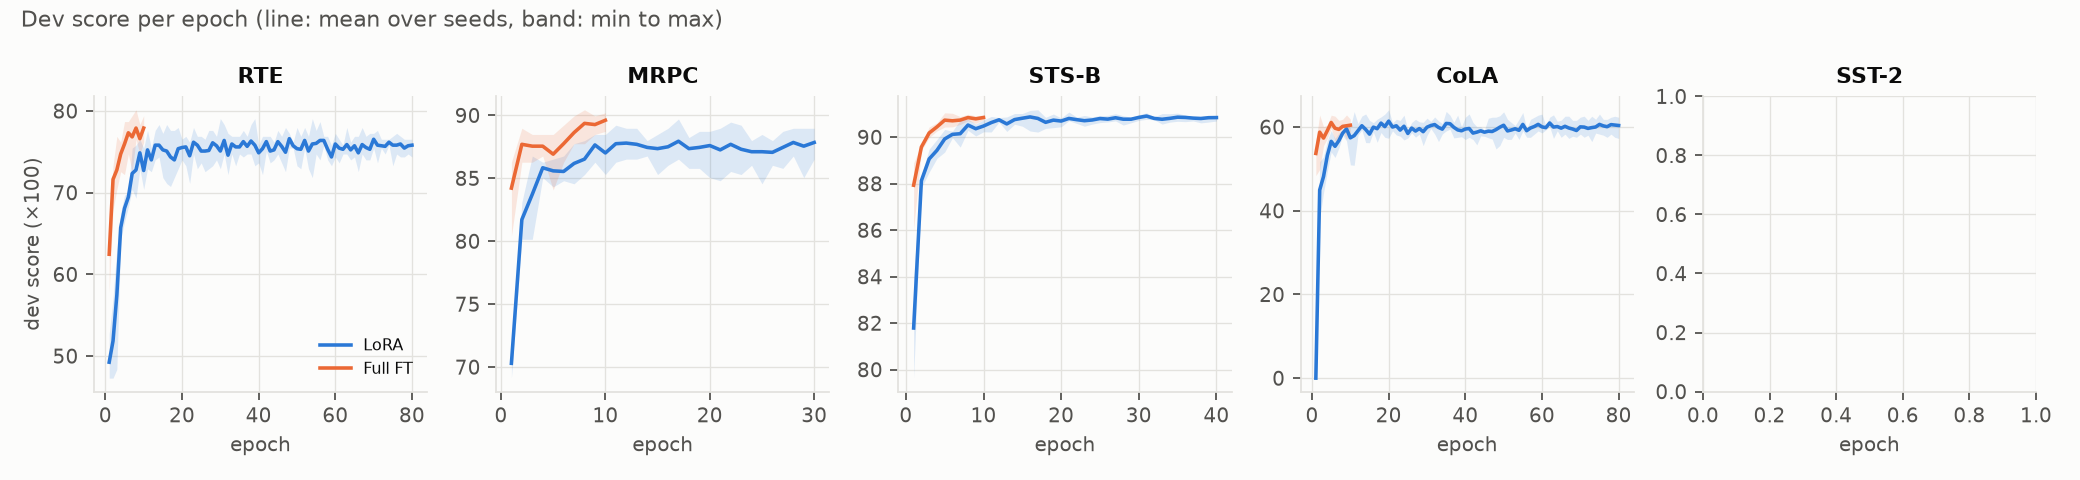
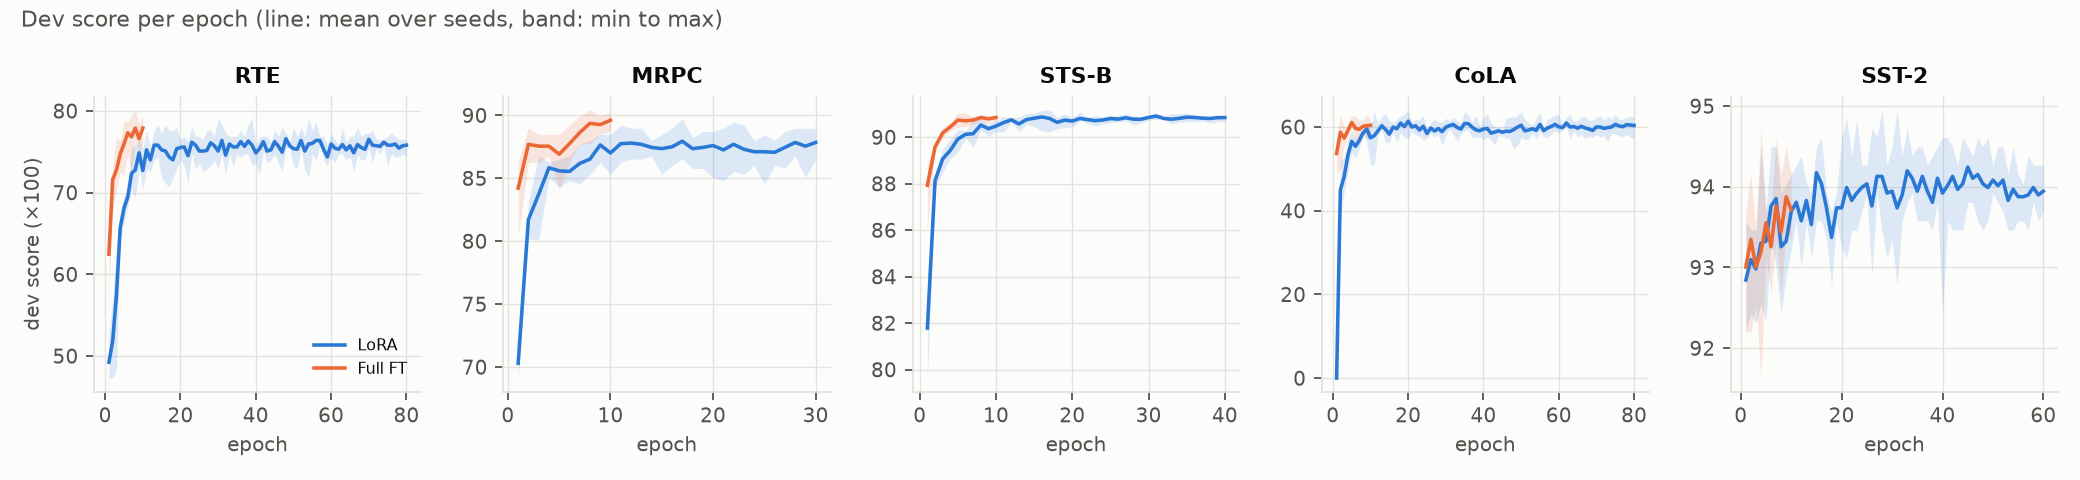
Regenerate figures and README blocks after the full core stage

diff --git a/README.md b/README.md
@@ -9,11 +9,12 @@ A from-scratch PyTorch implementation of Low-Rank Adaptation ([Hu et al., 2021](
 <!-- BEGIN:paper_vs_mine -->
 | Task | Metric | Paper (published) | Paper (dagger row) | Mine: mean ± std | Mine: median | Δ (median − paper) | Seeds | Likely reason (hypothesis) |
 | :--- | :--- | ---: | ---: | ---: | ---: | ---: | ---: | :--- |
-| SST-2 | Accuracy | 95.1 ± 0.2 | n/a | – | – | – | 0 | Not run. |
+| SST-2 | Accuracy | 95.1 ± 0.2 | n/a | 94.8 ± 0.2 | 94.8 | -0.3 | 5 | Hypothesis: unspecified settings (weight decay, optimizer betas, adapter initialisation scale) or bf16 autocast differ from the original runs. |
 | MRPC | Accuracy | 89.7 ± 0.7 | n/a | 89.2 ± 0.5 | 89.2 | -0.5 | 5 | Agreement despite the pre-trained start. |
 | CoLA | Matthews corr. | 63.4 ± 1.2 | n/a | 63.0 ± 1.0 | 63.1 | -0.3 | 5 | No MNLI start is involved; close agreement is expected. |
 | RTE | Accuracy | 86.6 ± 0.7 | n/a | 78.6 ± 0.5 | 78.7 | -7.9 | 5 | Hypothesis: the published run starts from an MNLI-adapted checkpoint, which is known to help the small RTE task considerably; here the start is the pre-trained model. |
 | STS-B | Pearson corr. | 91.5 ± 0.2 | n/a | 91.1 ± 0.1 | 91.0 | -0.5 | 5 | Hypothesis: the published run starts from an MNLI-adapted checkpoint; here the start is the pre-trained model. Regression head initialisation may also matter. |
+| Mean of the five tasks | – | 85.3 | n/a | – | 83.4 | -1.9 | – | Dominated by the tasks that start from an MNLI checkpoint in the paper. |
 <!-- END:paper_vs_mine -->
 
 Protocol: scores are GLUE **dev (validation)** results. As in the paper, every run is scored at its best epoch and the paper's statistic is the median over seeds; mean ± std over the same seeds is shown next to it. MRPC, RTE and STS-B start from the pre-trained RoBERTa-base checkpoint, not from an MNLI-adapted one. Table 2 of the paper has dagger rows only for RoBERTa-large, so no dagger value exists for the base model. The "likely reason" column is a text-only hypothesis (`docs/reasons.yaml`), not a verified cause.
@@ -21,8 +22,10 @@ Protocol: scores are GLUE **dev (validation)** results. As in the paper, every r
 ## Key findings
 
 <!-- BEGIN:key_findings -->
+- Across the five tasks, the mean of the per-task LoRA medians is 83.4 against 85.3 for the published LoRA row (-1.9).
 - The largest per-task difference is on RTE: median 78.7 versus 86.6 published (-7.9). MRPC, RTE and STS-B start from the pre-trained model here and from an MNLI-adapted checkpoint in the published row.
-- LoRA (median) is above my full fine-tuning run on 2 of 4 tasks; the mean difference of medians is -0.2. The FT run uses one fixed setting and no MNLI start.
+- LoRA (median) is above my full fine-tuning run on 3 of 5 tasks; the mean difference of medians is +0.0. The FT run uses one fixed setting and no MNLI start.
+- Seed sensitivity: the LoRA std is largest on CoLA (1.0) and smallest on STS-B (0.1); the mean std of RTE and MRPC is 0.5 against 0.4 for SST-2, CoLA and STS-B.
 <!-- END:key_findings -->
 
 ## Quickstart
@@ -46,8 +49,8 @@ Expected runtime on an RTX 4070 SUPER (estimate from the timing probe, next to t
 <!-- BEGIN:runtime -->
 | Target | Estimated GPU hours (probe) | Measured train hours | Runs finished |
 | :--- | ---: | ---: | ---: |
-| `make core` | 15.2 | 3.4 | 40 / 50 |
-| `make ablation` (ranks other than the default) | 36.8 | 0.0 | 0 / 75 |
+| `make core` | 15.2 | 17.8 | 50 / 50 |
+| `make ablation` (ranks other than the default) | 36.8 | 0.1 | 1 / 75 |
 | `make proj_ablation` (variants other than the default) | 4.7 | 0.0 | 0 / 45 |
 <!-- END:runtime -->
 
@@ -107,8 +110,8 @@ The full fine-tuning baseline uses one fixed point of the grid in the RoBERTa pa
 <!-- BEGIN:core -->
 | Task | Method | Trainable params (excl. head) | Best epoch: mean ± std | Best epoch: median | Min – max | Last epoch: mean ± std | Seeds |
 | :--- | :--- | ---: | ---: | ---: | ---: | ---: | ---: |
-| SST-2 | LoRA (r=8, Wq+Wv) | – | – | – | – | – | 0 |
-| SST-2 | Full fine-tuning | – | – | – | – | – | 0 |
+| SST-2 | LoRA (r=8, Wq+Wv) | 294,912 | 94.8 ± 0.2 | 94.8 | 94.5 – 95.0 | 93.9 ± 0.2 | 5 |
+| SST-2 | Full fine-tuning | 124,647,170 | 94.3 ± 0.4 | 94.2 | 93.9 – 94.7 | 93.7 ± 0.3 | 5 |
 | MRPC | LoRA (r=8, Wq+Wv) | 294,912 | 89.2 ± 0.5 | 89.2 | 88.5 – 89.7 | 87.8 ± 1.0 | 5 |
 | MRPC | Full fine-tuning | 124,647,170 | 90.0 ± 0.4 | 90.2 | 89.5 – 90.4 | 89.6 ± 0.6 | 5 |
 | CoLA | LoRA (r=8, Wq+Wv) | 294,912 | 63.0 ± 1.0 | 63.1 | 61.4 – 64.1 | 60.4 ± 2.0 | 5 |
@@ -124,7 +127,7 @@ Effect of the selection rule (LoRA, mean over seeds, best epoch versus last epoc
 <!-- BEGIN:selection -->
 | Task | Best-epoch mean | Last-epoch mean | Difference |
 | :--- | ---: | ---: | ---: |
-| SST-2 | – | – | – |
+| SST-2 | 94.8 | 93.9 | +0.8 |
 | MRPC | 89.2 | 87.8 | +1.4 |
 | CoLA | 63.0 | 60.4 | +2.6 |
 | RTE | 78.6 | 75.8 | +2.8 |
@@ -136,7 +139,7 @@ Effect of the selection rule (LoRA, mean over seeds, best epoch versus last epoc
 <!-- BEGIN:ft_comparison -->
 | Task | Paper FT (Liu et al.) | My FT: mean ± std | My FT: median | Paper LoRA | My LoRA: median | Paper: LoRA − FT | Mine: LoRA − FT (medians) |
 | :--- | ---: | ---: | ---: | ---: | ---: | ---: | ---: |
-| SST-2 | 94.8 | – | – | 95.1 ± 0.2 | – | +0.3 | – |
+| SST-2 | 94.8 | 94.3 ± 0.4 | 94.2 | 95.1 ± 0.2 | 94.8 | +0.3 | +0.7 |
 | MRPC | 90.2 | 90.0 ± 0.4 | 90.2 | 89.7 ± 0.7 | 89.2 | -0.5 | -1.0 |
 | CoLA | 63.6 | 62.5 ± 0.6 | 62.8 | 63.4 ± 1.2 | 63.1 | -0.2 | +0.3 |
 | RTE | 78.7 | 78.9 ± 0.9 | 78.7 | 86.6 ± 0.7 | 78.7 | +7.9 | +0.0 |
@@ -152,10 +155,10 @@ Mean ± std over seeds (alpha = r):
 <!-- BEGIN:rank_mean -->
 | Rank | LoRA params (excl. head) | SST-2 | MRPC | CoLA | RTE | STS-B |
 | :--- | ---: | ---: | ---: | ---: | ---: | ---: |
-| r = 1 | – | – | – | – | – | – |
+| r = 1 | 36,864 | – | – | – | 76.2 ± – (n=1) | – |
 | r = 2 | – | – | – | – | – | – |
 | r = 4 | – | – | – | – | – | – |
-| r = 8 | 294,912 | – | 89.2 ± 0.5 | 63.0 ± 1.0 | 78.6 ± 0.5 | 91.1 ± 0.1 |
+| r = 8 | 294,912 | 94.8 ± 0.2 | 89.2 ± 0.5 | 63.0 ± 1.0 | 78.6 ± 0.5 | 91.1 ± 0.1 |
 <!-- END:rank_mean -->
 
 Median over seeds:
@@ -163,10 +166,10 @@ Median over seeds:
 <!-- BEGIN:rank_median -->
 | Rank | LoRA params (excl. head) | SST-2 | MRPC | CoLA | RTE | STS-B |
 | :--- | ---: | ---: | ---: | ---: | ---: | ---: |
-| r = 1 | – | – | – | – | – | – |
+| r = 1 | 36,864 | – | – | – | 76.2 | – |
 | r = 2 | – | – | – | – | – | – |
 | r = 4 | – | – | – | – | – | – |
-| r = 8 | 294,912 | – | 89.2 | 63.1 | 78.7 | 91.0 |
+| r = 8 | 294,912 | 94.8 | 89.2 | 63.1 | 78.7 | 91.0 |
 <!-- END:rank_median -->
 
 ![Rank ablation](figures/rank_ablation.png)
@@ -195,11 +198,11 @@ Which attention matrices receive LoRA, with the trainable LoRA parameter count h
 | MRPC | 5 | 0.5 | 1.2 | 0.4 | 1.0 | 0.7 |
 | STS-B | 5 | 0.1 | 0.2 | 0.1 | 0.3 | 0.2 |
 | CoLA | 5 | 1.0 | 2.7 | 0.6 | 1.4 | 1.2 |
-| SST-2 | 0 | – | – | – | – | 0.2 |
+| SST-2 | 5 | 0.2 | 0.5 | 0.4 | 0.8 | 0.2 |
 <!-- END:variance -->
 
 <!-- BEGIN:variance_note -->
-_Not enough finished runs for the seed-variance comparison._
+Seed sensitivity, computed from the table above: for LoRA the mean seed std of RTE and MRPC (0.5) is larger than that of SST-2, CoLA and STS-B (0.4); for full fine-tuning the mean seed std of RTE and MRPC (0.6) is larger than that of SST-2, CoLA and STS-B (0.4). The dev sets of RTE and MRPC are small, so a single example changes accuracy by a visible amount; the paper's own reported spread is printed in the last column.
 <!-- END:variance_note -->
 
 ![Per-seed scores](figures/seed_variance.png)
@@ -276,12 +279,12 @@ Run coverage (planned versus finished; anything not finished is not reported):
 | Core (LoRA and FT) | MRPC | 10 | 10 | 0 |
 | Core (LoRA and FT) | STS-B | 10 | 10 | 0 |
 | Core (LoRA and FT) | CoLA | 10 | 10 | 0 |
-| Core (LoRA and FT) | SST-2 | 10 | 0 | 10 |
-| Rank ablation | RTE | 20 | 5 | 15 |
+| Core (LoRA and FT) | SST-2 | 10 | 10 | 0 |
+| Rank ablation | RTE | 20 | 6 | 14 |
 | Rank ablation | MRPC | 20 | 5 | 15 |
 | Rank ablation | STS-B | 20 | 5 | 15 |
 | Rank ablation | CoLA | 20 | 5 | 15 |
-| Rank ablation | SST-2 | 20 | 0 | 20 |
+| Rank ablation | SST-2 | 20 | 5 | 15 |
 | Projection ablation | RTE | 20 | 5 | 15 |
 | Projection ablation | MRPC | 20 | 5 | 15 |
 | Projection ablation | STS-B | 20 | 5 | 15 |
